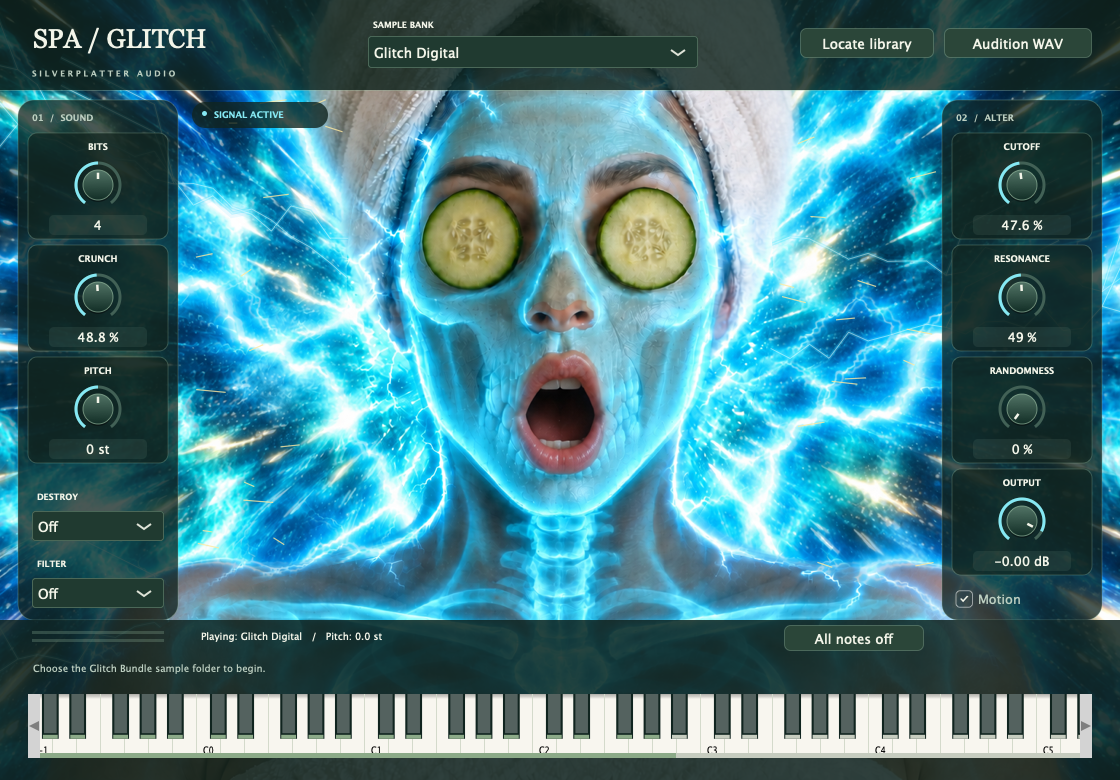
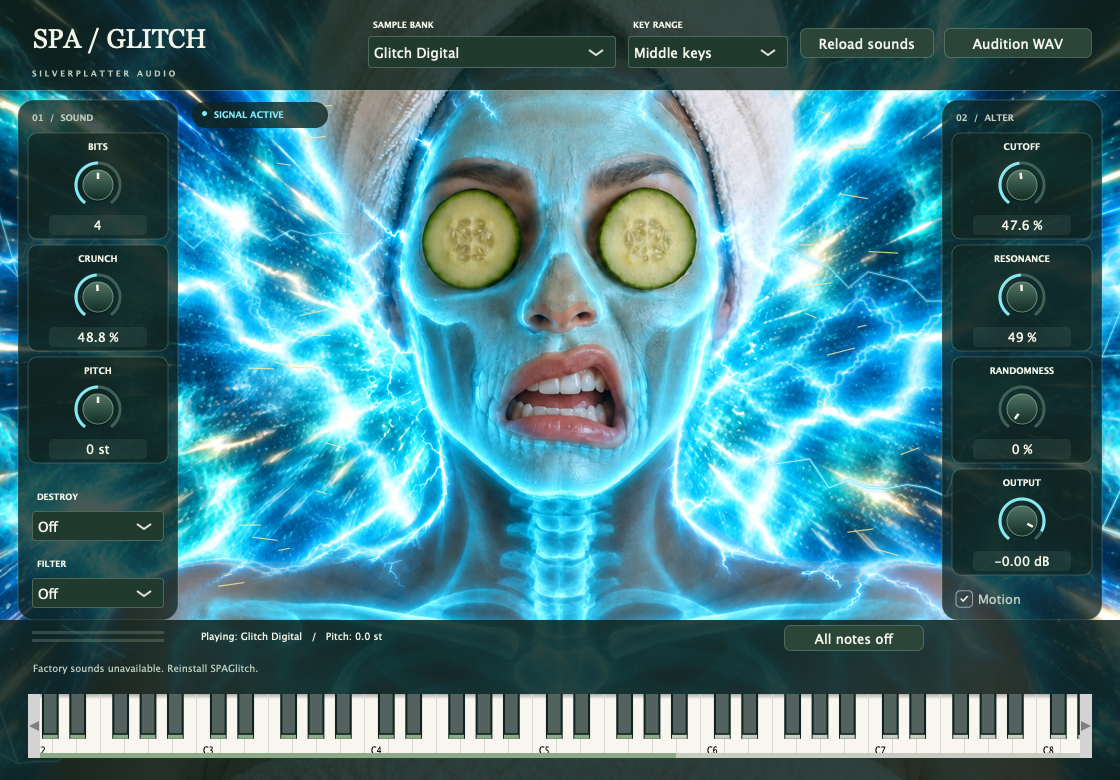
Add middle-key bank mapping while preserving existing project ranges

diff --git a/tests/ProcessorTests.cpp b/tests/ProcessorTests.cpp
@@ -140,7 +140,7 @@ static void libraryTests(const juce::File& root)
     for(int group=0;group<9;++group)
         for(int i=1;i<=glitch::counts[(size_t)group];++i)
             writeWave(folder.getChildFile(juce::String(glitch::categories[(size_t)group])+" "+juce::String(i).paddedLeft('0',2)+".wav"),0.05f*(group+1),960);
-    GlitchProcessor p(juce::File{}); p.prepareToPlay(48000,512); p.loadLibrary(folder);
+    GlitchProcessor p(juce::File{}); p.prepareToPlay(48000,512); parameter(p,"keyRange",0); p.loadLibrary(folder);
     require(p.waitForContent(),"All 479 category samples must load");
     juce::AudioBuffer<float> b(2,512);
     for(int group=0;group<9;++group)
@@ -160,6 +160,34 @@ static void libraryTests(const juce::File& root)
     GlitchProcessor restored(juce::File{}); restored.prepareToPlay(48000,512); restored.setNonRealtime(true);
     restored.setStateInformation(state.getData(),(int)state.getSize());
     note(restored,b,12); require(b.getMagnitude(0,512)>0,"Offline first block must await content restore");
+    parameter(p,"keyRange",1);
+    glitch::Bank mappingBank;
+    for(int group=0;group<9;++group)
+    {
+        const int start=glitch::bankFirstNote(group,true);
+        require(start>=24 && start+glitch::counts[(size_t)group]<=128,"Middle mapping must fit MIDI range");
+        for(int i=0;i<glitch::counts[(size_t)group];++i)
+        {
+            mappingBank.samples[(size_t)group][(size_t)i]=std::make_unique<glitch::Sample>();
+            require(mappingBank.get(group,start+i,true)==mappingBank.get(group,12+i,false),"Remapping must preserve every sample's identity and order");
+        }
+        p.allNotesOff();parameter(p,"category",(float)group);note(p,b,start);
+        require(b.getMagnitude(0,512)>0,"Middle first key must play");
+        p.allNotesOff();note(p,b,start+glitch::counts[(size_t)group]-1);
+        require(b.getMagnitude(0,512)>0,"Middle last key must play");
+        p.allNotesOff();note(p,b,start-1);require(b.getMagnitude(0,512)==0,"Below middle mapping must be silent");
+    }
+    glitch::Controls middle;middle.middleKeys=true;middle.randomness=100;glitch::Random rng;
+    int seen=0;
+    for(int i=0;i<2000;++i) { auto selected=glitch::forNote(middle,60,rng);require(glitch::noteInBank(selected.category,60,true),"Middle Boom must pick mapped banks");seen|=1<<selected.category; }
+    require(seen==511,"Middle C must reach all nine banks in Boom mode");
+    p.getStateInformation(state);restored.setStateInformation(state.getData(),(int)state.getSize());
+    require(restored.parameters.getRawParameterValue("keyRange")->load()==1,"New projects must retain middle mapping");
+    auto old=juce::AudioProcessor::getXmlFromBinary(state.getData(),(int)state.getSize());old->setAttribute("stateVersion",3);
+    for(auto* child=old->getFirstChildElement();child!=nullptr;)
+    { auto* next=child->getNextElement();if(child->getStringAttribute("id")=="keyRange")old->removeChildElement(child,true);child=next; }
+    juce::AudioProcessor::copyXmlToBinary(*old,state);restored.setStateInformation(state.getData(),(int)state.getSize());
+    require(restored.parameters.getRawParameterValue("keyRange")->load()==0,"Old projects must retain Kontakt mapping");
     std::cout<<"PASS: 479 mappings, nine categories, unmapped notes, Boom safety, offline restore\n";
 }
 static void engineTests()
@@ -424,7 +452,7 @@ int main(int argc,char** argv)
             GlitchProcessor p(argc==3 ? juce::File(argv[2]) : GlitchProcessor::installedLibrary());p.prepareToPlay(48000,512);
             require(p.waitForContent(30000),"Factory library did not auto-load");
             juce::AudioBuffer<float> b(2,512);
-            for(int g=0;g<9;++g) { p.allNotesOff();parameter(p,"category",(float)g);note(p,b,12);require(b.getMagnitude(0,512)>0,"Factory category silent"); }
+            for(int g=0;g<9;++g) { p.allNotesOff();parameter(p,"category",(float)g);note(p,b,48);require(b.getMagnitude(0,512)>0,"Factory category silent"); }
             auto empty=juce::ValueTree("SPAGlitch");empty.setProperty("contentPath","/missing/old/library",nullptr);
             juce::MemoryBlock state;juce::AudioProcessor::copyXmlToBinary(*empty.createXml(),state);
             p.setStateInformation(state.getData(),(int)state.getSize());
@@ -437,7 +465,7 @@ int main(int argc,char** argv)
             GlitchProcessor p(juce::File{});p.prepareToPlay(48000,512);p.loadLibrary(juce::File(argv[2]));
             require(p.waitForContent(180000),p.contentStatus().toRawUTF8());
             juce::AudioBuffer<float> b(2,512);
-            for(int g=0;g<9;++g) { p.allNotesOff();parameter(p,"category",(float)g);note(p,b,12);finite(b);require(b.getMagnitude(0,512)>0,"Real library category should sound"); }
+            for(int g=0;g<9;++g) { p.allNotesOff();parameter(p,"category",(float)g);note(p,b,48);finite(b);require(b.getMagnitude(0,512)>0,"Real library category should sound"); }
             std::cout<<"PASS: original 479-sample library loaded and all nine categories render\n";return 0;
         }
         if(argc==3 && juce::String(argv[1])=="--animation-preview")

diff --git a/Source/PluginEditor.cpp b/Source/PluginEditor.cpp
@@ -57,6 +57,9 @@ GlitchEditor::GlitchEditor(GlitchProcessor& p)
     motion.setToggleState(true,juce::dontSendNotification);
     motion.setTooltip("Disable animated lightning, sparks and twitching while retaining the audio-reactive x-ray glow");
     addAndMakeVisible(motion);
+    keyRangeLabel.setText("KEY RANGE",juce::dontSendNotification);
+    keyRange.addItemList({"Kontakt keys","Middle keys"},1);
+    keyRangeAttachment=std::make_unique<juce::AudioProcessorValueTreeState::ComboBoxAttachment>(p.parameters,"keyRange",keyRange);
     categoryLabel.setText("SAMPLE BANK",juce::dontSendNotification);
     destroyLabel.setText("DESTROY",juce::dontSendNotification);
     filterLabel.setText("FILTER",juce::dontSendNotification);
@@ -91,8 +94,8 @@ GlitchEditor::GlitchEditor(GlitchProcessor& p)
     knobs[1].updateText(); knobs[3].updateText();
     knobs[2].setTextValueSuffix(" st"); knobs[4].setTextValueSuffix(" %");
     knobs[5].setTextValueSuffix(" %"); knobs[6].setTextValueSuffix(" dB");
-    keyboard.setAvailableRange(0,127); keyboard.setLowestVisibleKey(12); keyboard.setKeyWidth(24);
-    for(auto* c:std::initializer_list<juce::Component*>{&title,&status,&effective,&categoryLabel,&destroyLabel,&filterLabel,&category,&destroy,&filter,&load,&audition,&panic,&keyboard}) addAndMakeVisible(c);
+    keyboard.setAvailableRange(0,127); keyboard.setLowestVisibleKey(48); keyboard.setKeyWidth(24);
+    for(auto* c:std::initializer_list<juce::Component*>{&title,&status,&effective,&categoryLabel,&destroyLabel,&filterLabel,&keyRangeLabel,&keyRange,&category,&destroy,&filter,&load,&audition,&panic,&keyboard}) addAndMakeVisible(c);
     auto choose=[this](bool single)
     {
         chooser=std::make_unique<juce::FileChooser>(single?"Choose a WAV":"Choose the Glitch Bundle or sample folder",juce::File{},single?"*.wav":"");
@@ -109,7 +112,7 @@ GlitchEditor::GlitchEditor(GlitchProcessor& p)
     status.setFont(juce::Font(juce::FontOptions(11.5f)));
     status.setColour(juce::Label::textColourId,muted);
     effective.setFont(juce::Font(juce::FontOptions(11.5f)));
-    for(auto* label:{&categoryLabel,&destroyLabel,&filterLabel}) label->setFont(juce::Font(juce::FontOptions(10.0f,juce::Font::bold)));
+    for(auto* label:{&categoryLabel,&destroyLabel,&filterLabel,&keyRangeLabel}) label->setFont(juce::Font(juce::FontOptions(10.0f,juce::Font::bold)));
     keyboard.setColour(juce::MidiKeyboardComponent::whiteNoteColourId,juce::Colour(0xfff8f6ef));
     keyboard.setColour(juce::MidiKeyboardComponent::blackNoteColourId,paper);
     keyboard.setColour(juce::MidiKeyboardComponent::keySeparatorLineColourId,juce::Colour(0xffd4dacb));
@@ -120,7 +123,8 @@ void GlitchEditor::resized()
 {
     title.setBounds(28,18,290,40);
     load.setBounds(800,28,134,30);audition.setBounds(944,28,148,30);
-    categoryLabel.setBounds(368,16,280,16);category.setBounds(368,36,330,32);
+    categoryLabel.setBounds(368,16,248,16);category.setBounds(368,36,248,32);
+    keyRangeLabel.setBounds(628,16,160,16);keyRange.setBounds(628,36,160,32);
     photoBounds=getLocalBounds();
     const int knobWidth=140,rowHeight=112;
     const std::array<int,3> left{0,1,2};
@@ -239,12 +243,14 @@ void GlitchEditor::timerCallback()
     int group=processor.voiceCount.load()>0 ? processor.playingCategory.load() : category.getSelectedItemIndex();
     group=juce::jlimit(0,8,group);
     effective.setText("Playing: "+juce::String(glitch::categories[(size_t)group])+"   /   Pitch: "+juce::String(processor.playingPitch.load()/100000.0,1)+" st",juce::dontSendNotification);
+    const int mapping=keyRange.getSelectedItemIndex();
+    if(mapping!=lastKeyRange) { lastKeyRange=mapping;keyboard.setLowestVisibleKey(mapping==1?48:12); }
     if(group!=highlighted)
     {
         highlighted=group;
         // The range matches the recovered per-category zone map.
-        keyboard.setMapping(group,false,0);
+        keyboard.setMapping(group,false,0,mapping==1);
     }
-    keyboard.setMapping(group,knobs[5].getValue()==100,processor.playingPitch.load()/10000);
+    keyboard.setMapping(group,knobs[5].getValue()==100,processor.playingPitch.load()/10000,mapping==1);
     repaint(photoBounds.expanded(3));repaint(190,100,740,22);
 }

diff --git a/Source/Plugin.cpp b/Source/Plugin.cpp
@@ -16,6 +16,7 @@ juce::AudioProcessorValueTreeState::ParameterLayout GlitchProcessor::layout()
     p.add(std::make_unique<juce::AudioParameterChoice>(juce::ParameterID{"destroy",1},"Destroy",juce::StringArray{"On","Off"},1));
     p.add(std::make_unique<juce::AudioParameterChoice>(juce::ParameterID{"filter",1},"Filter",juce::StringArray{"High-pass","Off","Low-pass"},1));
     p.add(std::make_unique<juce::AudioParameterFloat>(juce::ParameterID{"gain",1},"Output",-60.0f,6.0f,0.0f));
+    p.add(std::make_unique<juce::AudioParameterChoice>(juce::ParameterID{"keyRange",1},"Key range",juce::StringArray{"Kontakt keys","Middle keys"},1));
     return p;
 }
 juce::File GlitchProcessor::installedLibrary()
@@ -30,7 +31,7 @@ GlitchProcessor::GlitchProcessor(juce::File factory)
  : AudioProcessor(BusesProperties().withOutput("Output",juce::AudioChannelSet::stereo(),true)),
    parameters(*this,nullptr,"SPAGlitch",layout()),factoryLibrary(std::move(factory))
 {
-    const char* ids[]{"category","pitch","lofi","drive","cutoff","resonance","randomness","destroy","filter","gain"};
+    const char* ids[]{"category","pitch","lofi","drive","cutoff","resonance","randomness","destroy","filter","gain","keyRange"};
     for(size_t i=0;i<values.size();++i) values[i]=parameters.getRawParameterValue(ids[i]);
     publishedRuntime.write(engine.runtimeState());
     if(factoryLibrary.isDirectory()) loadInstalledLibrary();
@@ -41,7 +42,7 @@ glitch::Controls GlitchProcessor::controls() const noexcept
     glitch::Controls c;
     c.category=(int)values[0]->load(); c.pitch=(int)values[1]->load(); c.lofi=(int)values[2]->load();
     c.drive=(int)values[3]->load(); c.cutoff=(int)values[4]->load(); c.resonance=(int)values[5]->load();
-    c.randomness=(int)values[6]->load(); c.destroy=(int)values[7]->load(); c.filter=(int)values[8]->load(); c.gainDb=values[9]->load();
+    c.randomness=(int)values[6]->load(); c.destroy=(int)values[7]->load(); c.filter=(int)values[8]->load(); c.gainDb=values[9]->load(); c.middleKeys=values[10]->load()>.5f;
     return c;
 }
 bool GlitchProcessor::isBusesLayoutSupported(const BusesLayout& l) const
@@ -96,7 +97,7 @@ void GlitchProcessor::processBlock(juce::AudioBuffer<float>& b,juce::MidiBuffer&
 void GlitchProcessor::getStateInformation(juce::MemoryBlock& out)
 {
     auto state=parameters.copyState();
-    state.setProperty("stateVersion",3,nullptr);
+    state.setProperty("stateVersion",4,nullptr);
     glitch::Engine::RuntimeState runtime; uint64_t revision=0;
     while(!pendingRuntime.read(runtime,revision)) juce::Thread::yield();
     if(revision==appliedRuntime.load())
@@ -115,6 +116,13 @@ void GlitchProcessor::setStateInformation(const void* data,int size)
         if(xml->hasTagName("SPAGlitch"))
         {
             auto state=juce::ValueTree::fromXml(*xml);
+            // Older projects keep their original MIDI/sample mapping.
+            if((int)state.getProperty("stateVersion",1)<4)
+            {
+                auto mapping=state.getChildWithProperty("id","keyRange");
+                if(!mapping.isValid()) { mapping=juce::ValueTree("PARAM");mapping.setProperty("id","keyRange",nullptr);state.addChild(mapping,-1,nullptr); }
+                mapping.setProperty("value",0,nullptr);
+            }
             parameters.replaceState(state);
             const auto seed=(uint32_t)(juce::int64)state.getProperty("randomSeed",(juce::int64)0x47544348u);
             restoredSeed=seed ? seed : 1;

diff --git a/Source/PluginEditor.h b/Source/PluginEditor.h
@@ -11,14 +11,14 @@ class MappedKeyboard final : public juce::MidiKeyboardComponent
 {
 public:
     explicit MappedKeyboard(juce::MidiKeyboardState& state):MidiKeyboardComponent(state,horizontalKeyboard) {}
-    void setMapping(int group,bool random,int tick)
-    { category=group; boom=random; colourTick=tick; repaint(); }
+    void setMapping(int group,bool random,int tick,bool middle)
+    { category=group; boom=random; colourTick=tick; middleKeys=middle; repaint(); }
 private:
     int category=0,colourTick=0;
-    bool boom=false;
+    bool boom=false,middleKeys=true;
     juce::Colour stripe(int note) const
     {
-        if(note<12 || note>=12+glitch::counts[(size_t)category]) return juce::Colour(0xffc6ccbf);
+        if(!glitch::noteInBank(category,note,middleKeys)) return juce::Colour(0xffc6ccbf);
         return boom ? juce::Colour::fromHSV((float)(((note*13+colourTick)%100+100)%100)/100.0f,0.6f,0.9f,1.0f) : juce::Colour(0xff8caa88);
     }
     void drawWhiteNote(int note,juce::Graphics& g,juce::Rectangle<float> area,bool down,bool over,juce::Colour line,juce::Colour text) override
@@ -37,7 +37,7 @@ private:
     void timerCallback() override;
     GlitchProcessor& processor;
     SpaLookAndFeel look;
-    juce::Label title,status,effective,categoryLabel,destroyLabel,filterLabel;
+    juce::Label title,status,effective,categoryLabel,destroyLabel,filterLabel,keyRangeLabel;
     juce::TextButton load{"Locate library..."},audition{"Audition WAV..."},panic{"All notes off"};
     juce::ToggleButton motion{"Motion"};
     juce::Image calmImage;
@@ -45,15 +45,15 @@ private:
     ShockAnimation shock;
     BlastAnimation blast;
     juce::Rectangle<int> photoBounds;
-    juce::ComboBox category,destroy,filter;
+    juce::ComboBox category,destroy,filter,keyRange;
     std::array<juce::Slider,7> knobs;
     std::array<juce::Label,7> labels;
     MappedKeyboard keyboard;
     std::array<std::unique_ptr<juce::AudioProcessorValueTreeState::SliderAttachment>,7> attachments;
-    std::unique_ptr<juce::AudioProcessorValueTreeState::ComboBoxAttachment> categoryAttachment,destroyAttachment,filterAttachment;
+    std::unique_ptr<juce::AudioProcessorValueTreeState::ComboBoxAttachment> categoryAttachment,destroyAttachment,filterAttachment,keyRangeAttachment;
     std::unique_ptr<juce::FileChooser> chooser;
     float meterLeft=0,meterRight=0;
     float energy=0;
     int animationFrame=0;
-    int highlighted=-1;
+    int highlighted=-1,lastKeyRange=-1;
 };

diff --git a/Source/GlitchEngine.h b/Source/GlitchEngine.h
@@ -15,6 +15,15 @@ inline constexpr std::array<const char*,9> categories {
     "Glitch Heavy Long", "Glitch Heavy Short", "Glitch Rapid Modulation", "Glitch Squelchy", "Glitch Percussive" };
 inline constexpr std::array<int,9> counts {46,14,95,76,24,65,32,50,77};
 inline constexpr int firstNote=12;
+inline constexpr int bankFirstNote(int group,bool middleKeys) noexcept
+{
+    return middleKeys ? (group==2 ? 24 : 48) : firstNote;
+}
+inline constexpr bool noteInBank(int group,int note,bool middleKeys) noexcept
+{
+    return group>=0 && group<9 && note>=bankFirstNote(group,middleKeys)
+        && note<bankFirstNote(group,middleKeys)+counts[(size_t)group];
+}
 // Measured full-velocity dry level, relative to the original PCM. Keep the
 // small residual trim after effects until the internal gain staging is isolated.
 inline constexpr float groupGain=0.5f;
@@ -46,11 +55,11 @@ struct Bank
     std::unique_ptr<Sample> audition;
     uint64_t generation=0;
     int size=0;
-    const Sample* get(int group,int note) const noexcept
+    const Sample* get(int group,int note,bool middleKeys=false) const noexcept
     {
         if(audition) return audition.get();
-        if(group<0 || group>=9 || note<firstNote || note>=firstNote+counts[(size_t)group]) return nullptr;
-        return samples[(size_t)group][(size_t)(note-firstNote)].get();
+        if(!noteInBank(group,note,middleKeys)) return nullptr;
+        return samples[(size_t)group][(size_t)(note-bankFirstNote(group,middleKeys))].get();
     }
 };
 struct Controls
@@ -58,6 +67,7 @@ struct Controls
     int category=0, pitch=0, lofi=4, drive=488095, cutoff=476191, resonance=49;
     int randomness=0, destroy=1, filter=1;
     float gainDb=0;
+    bool middleKeys=false;
 };
 struct NoteSettings
 {

diff --git a/Source/GlitchEngine.cpp b/Source/GlitchEngine.cpp
@@ -9,11 +9,16 @@ NoteSettings forNote(const Controls& c,int note,Random& random,bool audition) no
     NoteSettings n;
     n.category=c.category; n.pitchUnits=c.pitch*100000; n.bits=c.lofi*62500+250000;
     n.drive=c.drive; n.cutoff=c.cutoff; n.resonance=c.resonance; n.destroy=c.destroy; n.filter=c.filter;
-    if(!audition && (note<12 || note>106)) { n.category=-1; return n; }
+    if(!audition)
+    {
+        bool mapped=false;
+        for(int g=0;g<9;++g) mapped|=noteInBank(g,note,c.middleKeys);
+        if(!mapped) { n.category=-1; return n; }
+    }
     if(c.randomness==100 && !audition)
     {
         std::array<int,9> eligible{}; int count=0;
-        for(int g=0;g<9;++g) if(note<12+counts[(size_t)g]) eligible[(size_t)count++]=g;
+        for(int g=0;g<9;++g) if(noteInBank(g,note,c.middleKeys)) eligible[(size_t)count++]=g;
         if(count==0) { n.category=-1; return n; }
         n.category=eligible[(size_t)random.between(0,count-1)];
     }
@@ -112,7 +117,7 @@ void Engine::noteOn(int channel,int note,float velocity) noexcept
         settings.pitchUnits=pitchKnobUsed ? controls.pitch*100000 : lastRandomTune;
     }
     selectFilterValues(); updateEffects();
-    const auto* sample=bank->get(selected.category,note);
+    const auto* sample=bank->get(selected.category,note,controls.middleKeys);
     if(!sample) return;
     Voice* target=nullptr;
     for(auto& v:voices) if(!v.sample) { target=&v; break; }

diff --git a/Source/Plugin.h b/Source/Plugin.h
@@ -65,7 +65,7 @@ private:
     ContentLoader content;
     glitch::Engine engine;
     const glitch::Bank* currentBank=nullptr;
-    std::array<std::atomic<float>*,10> values{};
+    std::array<std::atomic<float>*,11> values{};
     std::atomic<bool> panicRequested{false};
     std::atomic<uint32_t> restoredSeed{0},currentSeed{0x47544348u};
     static juce::AudioProcessorValueTreeState::ParameterLayout layout();

diff --git a/docs/PORT-STATUS.md b/docs/PORT-STATUS.md
@@ -315,3 +315,16 @@ Packaging verifies sample hashes against `packaging/sample-manifest.json`.
 Raw samples remain outside git. Windows factory installer jobs are gated by
 `SPAGLITCH_FACTORY_SAMPLES_ENABLED`; enabling them requires an authorized private
 build-input source. No sample upload has been performed at this revision.
+
+## Controller-friendly key range (0.1.3)
+
+New instances default to Middle keys. All banks start on MIDI 48 except the
+95-sample Digital Short bank, which starts on MIDI 24 to keep every sample inside
+0..127. The sample order and playback pitch are unchanged. Digital Long covers
+48..61, Heavy Long 48..71, and Rapid Modulation 48..79. MIDI 60 can select every
+bank in Boom mode. The on-screen mapping follows the selected key range.
+
+Key range offers Kontakt keys (original start at MIDI 12). States saved before
+version 4 of the state schema retain Kontakt keys automatically, preserving old
+MIDI arrangements. Users can select Middle keys explicitly in existing projects.
+New states save the selection independently of the recovered DSP runtime state.

diff --git a/packaging/macos/README.md b/packaging/macos/README.md
@@ -7,7 +7,7 @@ and `SPAGlitch.vst3` built for Apple Silicon.
 Creates a selectable product installer for `/Applications` and the system AU/VST3
 folders. All 479 hash-verified factory samples are installed under /Library/Application Support/Silverplatter Audio/SPAGlitch/Samples. No install scripts run. Staged binaries are
 ad-hoc signed; the installer is unsigned and not notarized. Version is currently
-0.1.2; update package and bundle versions together for a public release.
+0.1.3; update package and bundle versions together for a public release.
 
 Validate with `pkgutil --expand-full` (using a new output directory), `codesign
 --verify --deep --strict` on each expanded payload bundle, and `installer
